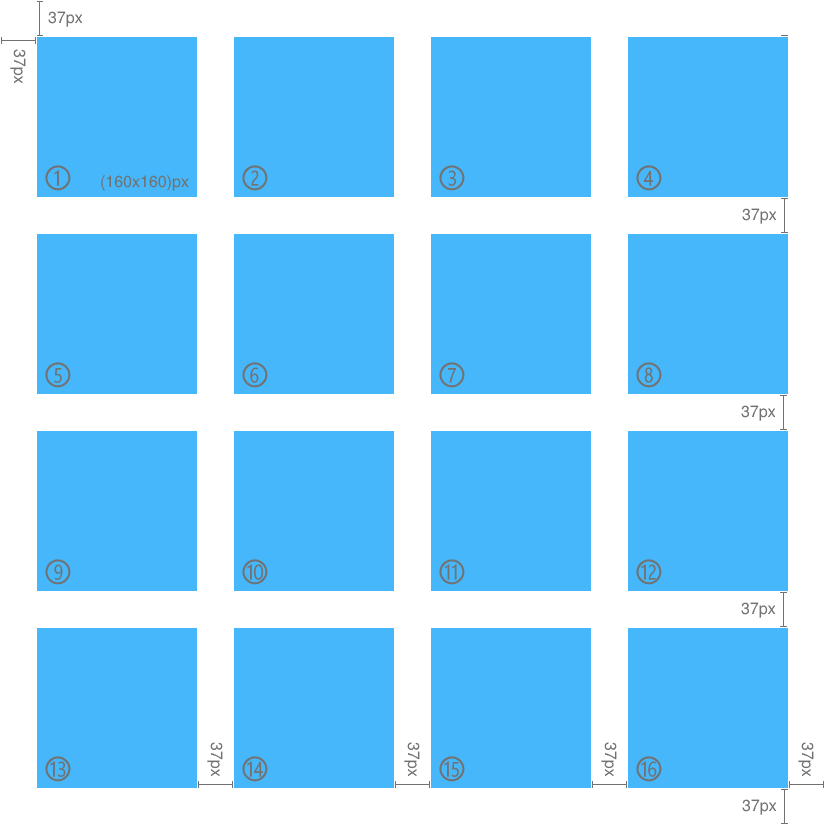
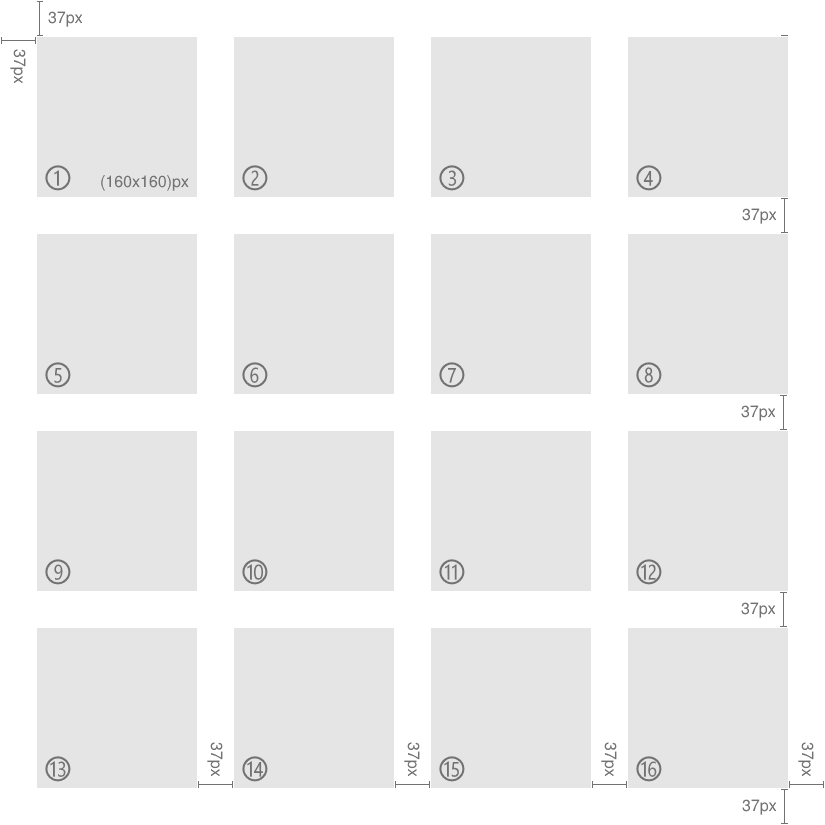
Updated structure.

diff --git a/_sass/jekyll-theme-minimal.scss b/_sass/jekyll-theme-minimal.scss
@@ -1,43 +1,48 @@
 /*Blue Grey*/
 $col1: #46B7FB;
 $col2: #727272;
-$coltext: #727272;
+$colText: #727272;
+$colBlock: #E5E5E5;
 $white: #FFFFFF;
 
 /*Pink Light*/
 /*$col1: #FB467B;
 $col2: #FDA3BD;
-$coltext: #727272;
+$colText: #727272;
+$colBlock: #E5E5E5;
 $white: #FFFFFF;*/
 
 /*Pink Light*/
 /*$col1: #FE79B8;
 $col2: #FEA7CB;
-$coltext: #727272;
+$colText: #727272;
+$colBlock: #E5E5E5;
 $white: #FFFFFF;*/
 
 /*Pink Orange*/
 /*$col1: #FE79B8;
 $col2: #FEB6A7;
-$coltext: #727272;
+$colText: #727272;
+$colBlock: #E5E5E5;
 $white: #FFFFFF;*/
 
 /*Icaras:*/
 /*$col1: #A71F58;
 $col2: #D288A8;
-$coltext: #727272;
+$colText: #727272;
+$colBlock: #E5E5E5;
 $white: #FFFFFF;*/
 
 body {
   background-color: $white;
   padding: 30px;
   font: 14px/1.5 "Helvetica Neue", Helvetica, Arial, sans-serif;
-  color: $coltext;
+  color: $colText;
   font-weight: 400;
 }
 
 h1, h2, h3, h4, h5, h6 {
-  color: $coltext;
+  color: $colText;
   margin: 0 0 20px 0;
 }
 
@@ -60,7 +65,7 @@ h1 {
 
 h2 {
   font-size: 28px;
-  border-bottom: 1px solid #e5e5e5;
+  border-bottom: 1px solid $colBlock;
   /*margin-left: -28px; To account for the black triangle right.*/
 }
 
@@ -87,7 +92,7 @@ a small {
 }
 
 a:hover small {
-  color: $coltext;
+  color: $colText;
 }
 
 .wrapper {
@@ -96,7 +101,7 @@ a:hover small {
 }
 
 blockquote {
-  border-left: 5px solid #e5e5e5;
+  border-left: 5px solid $colBlock;
   margin: 0;
   padding: 0 0 0 20px;
   border-radius: .4em;
@@ -104,17 +109,17 @@ blockquote {
 
 code, pre {
   /*font-family: SFMono-Regular,Consolas,Liberation Mono,Menlo,monospace;*/
-  color: $coltext;
-  background: #F3F4F4;
+  color: $colText;
+  background: $colBlock;
   padding: .1em .3em;
   border-radius: .4em;
 }
 
 pre {
   padding: 8px 15px;
-  background: #f8f8f8;
+  background: $colBlock;
   border-radius: 5px;
-  border: 1px solid #e5e5e5;
+  border: 1px solid $colBlock;
   overflow-x: auto;
 }
 
@@ -129,16 +134,16 @@ th, td {
   text-align: left;
   padding: 5px 10px;
   vertical-align: top;
-/*  border-bottom: 1px solid #e5e5e5;*/
+/*  border-bottom: 1px solid $colBlock;*/
 }
 
 dt {
-  color: $coltext;
+  color: $colText;
   font-weight: 700;
 }
 
 th {
-  color: $coltext;
+  color: $colText;
 }
 
 img {
@@ -211,7 +216,7 @@ ul.downloads {
 }
 
 strong {
-  color: $coltext;
+  color: $colText;
   font-weight: 700;
 }
 
@@ -238,7 +243,7 @@ small {
 
 hr {
   border: 0;
-  background: #e5e5e5;
+  background: $colBlock;
   height: 1px;
   margin: 0 0 20px;
 }
@@ -253,12 +258,12 @@ footer {
 
 button {
   background-color: $white; 
-  color: $coltext;
+  color: $colText;
 }
 
 button:hover {
   background-color: $col1;
-  color: $coltext;
+  color: $colText;
 }
 
 .svgcol1 {
@@ -287,7 +292,7 @@ button:hover {
   }
 
   section {
-    border: 5px solid #e5e5e5;
+    border: 5px solid $colBlock;
     border-width: 1px 0;
     padding: 20px 0;
     margin: 0 0 20px;
@@ -340,7 +345,7 @@ button:hover {
   body {
     padding: 0.4in;
     font-size: 12pt;
-    color: $coltext;
+    color: $colText;
   }
 }
 

diff --git a/jubeat/analyser/panelsize/index.md b/jubeat/analyser/panelsize/index.md
@@ -1,3 +1,8 @@
+---
+cite: site.data.jubeat_analyser_panelsize_biblio
+---
+{% assign biblio = site.data.jubeat_analyser_panelsize_biblio %}
+
 # Jubeat Analyser Panelsize
 
 W.I.P.
@@ -33,7 +38,7 @@ The base playfield size is (a+b)*pw+b horizontally and (a+b)*ph+b vertically whe
 
 <img src="Jubeat - Screen Dimensions - PNG.png" alt="Jubeat - Screen Dimensions - PNG" width="700"/>
 
-<p><strong>Figure 1:</strong> Jubeat screen object dimensions. Total screen dimensions are \( 768 \times 1360 \, \text{px} \).</p>
+<p><strong>Figure 1:</strong> Jubeat screen object dimensions. Total screen dimensions are \( 768 \times 1360 \, \text{px} \) [1].</p>
 
 <br>
 
@@ -65,3 +70,18 @@ as then the infodisplay can have the correct size. To summarize;
 - Practical/desired playfield resolution: (767x767)px.
 - Corresponding base infodisp resolution: (825x454)px.
 - Practical/desired infodisp resolution: (768x464)px.
+
+<br>
+
+## Bibliography
+
+<table>
+    <thead>
+    </thead>
+    <tbody>
+    	<tr>
+    		<td>[1]</td>
+    		<td>“「jubeat clan」が稼働開始。‘人とつながる’をテーマにしたシリーズ最新作,” 4gamer.NET, 26-Jul-2017. [Online]. Available: <a href="https://www.4gamer.net/games/389/G038903/20170726115/screenshot.html?mode=thumbs">https://www.4gamer.net/games/389/G038903/20170726115/screenshot.html?mode=thumbs</a>. [Accessed: 28-Nov-2021].</td>
+    	</tr>
+	</tbody>
+</table>

diff --git a/jubeat/analyser/markers/index.md b/jubeat/analyser/markers/index.md
@@ -68,7 +68,7 @@ The other markers in the list are not stored on this page, and are instead being
         </tr>
     </thead>
     <tbody>
-    {% for marker in site.data.markers %}
+    {% for marker in site.data.jubeat_analyser_markers_markers %}
         <tr>
         	<td>{{ marker.name }}</td>
             <td>{{ marker.desc }}</td>
